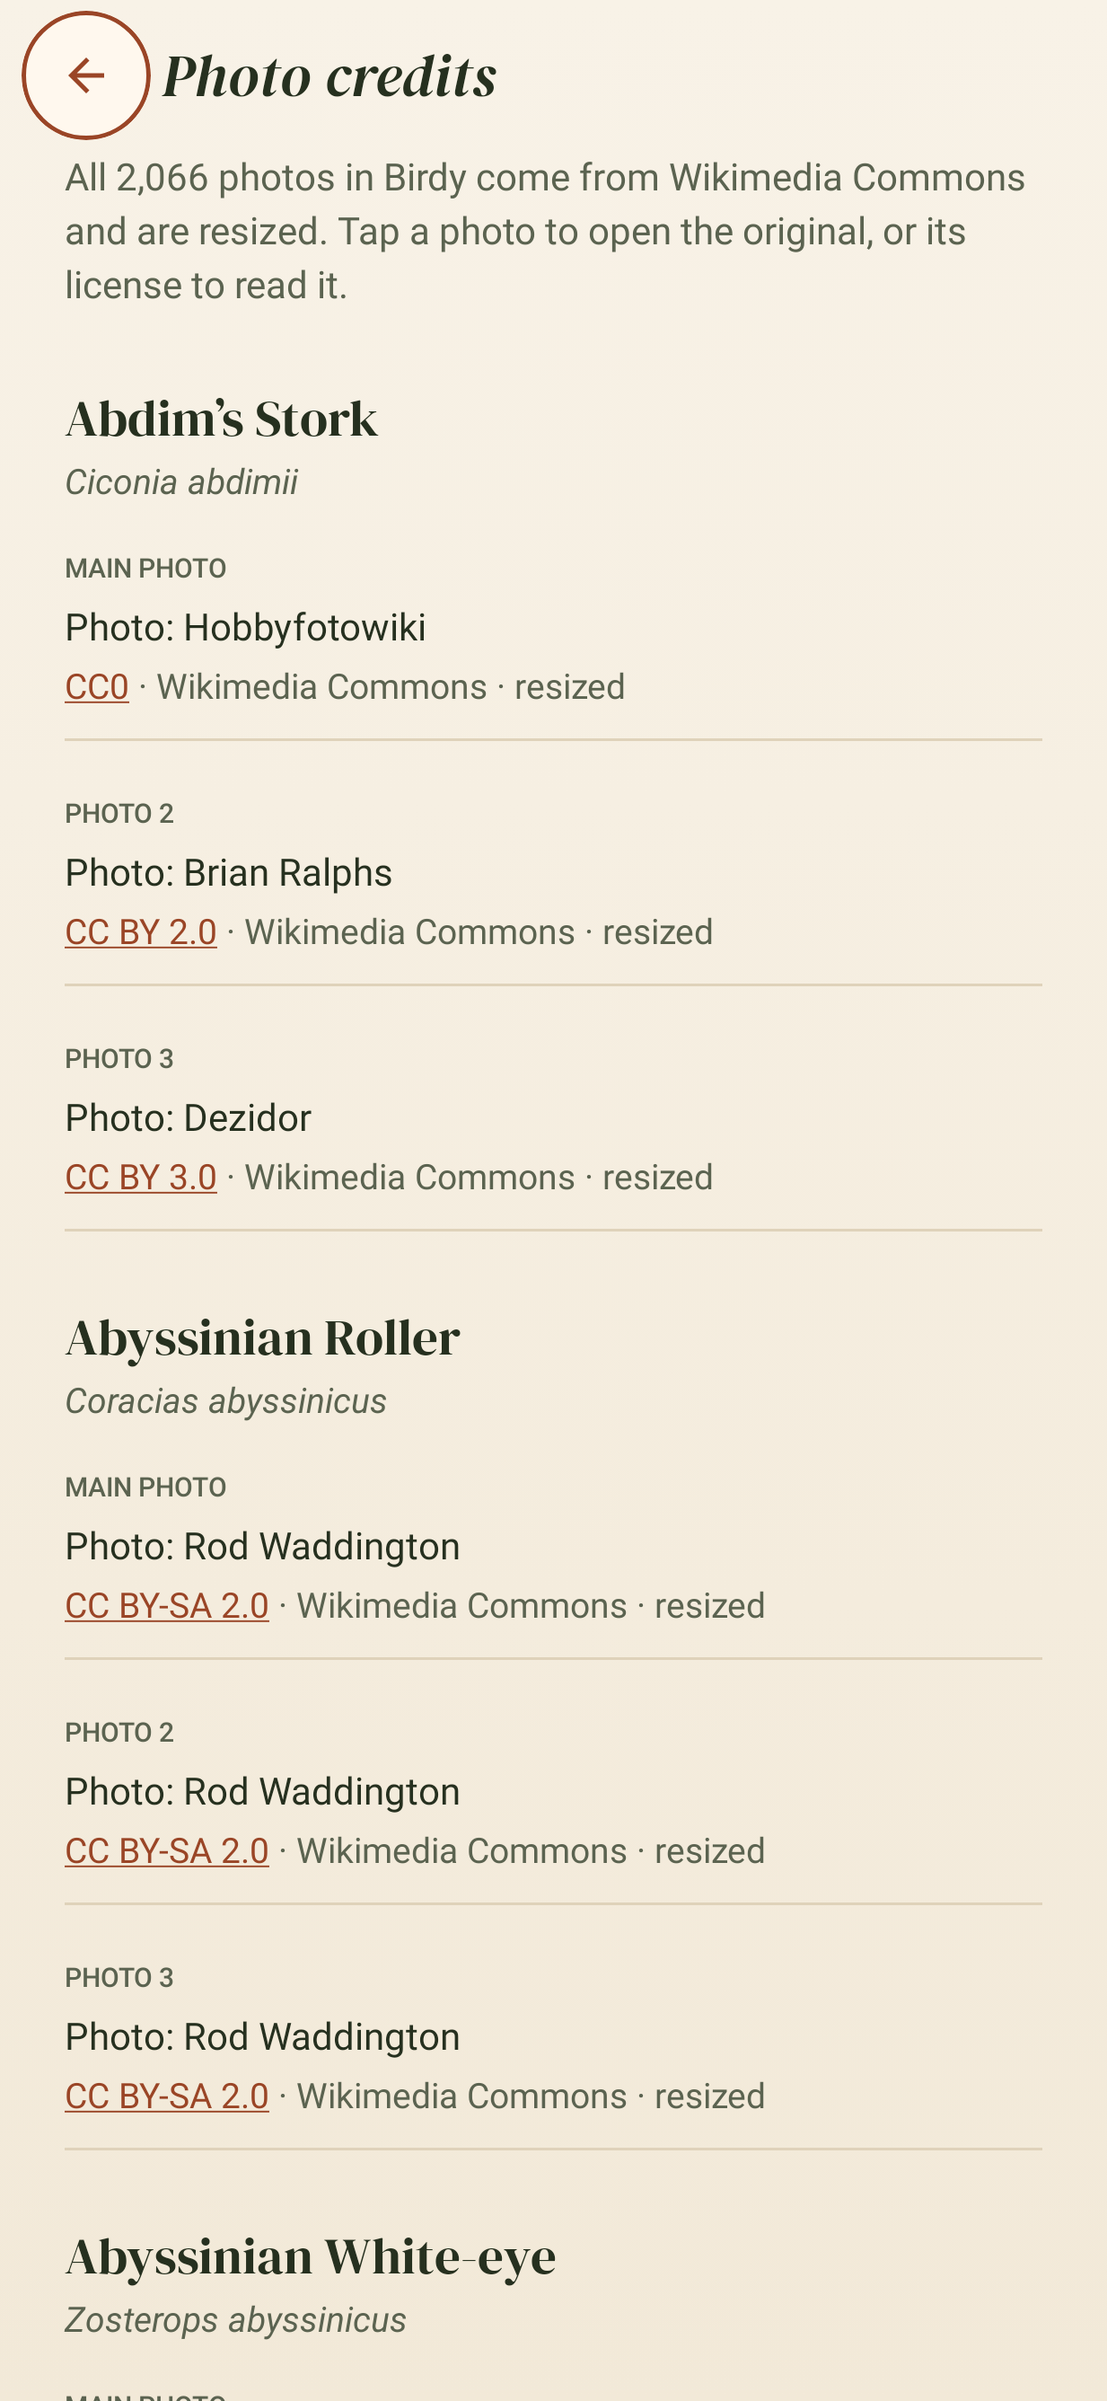
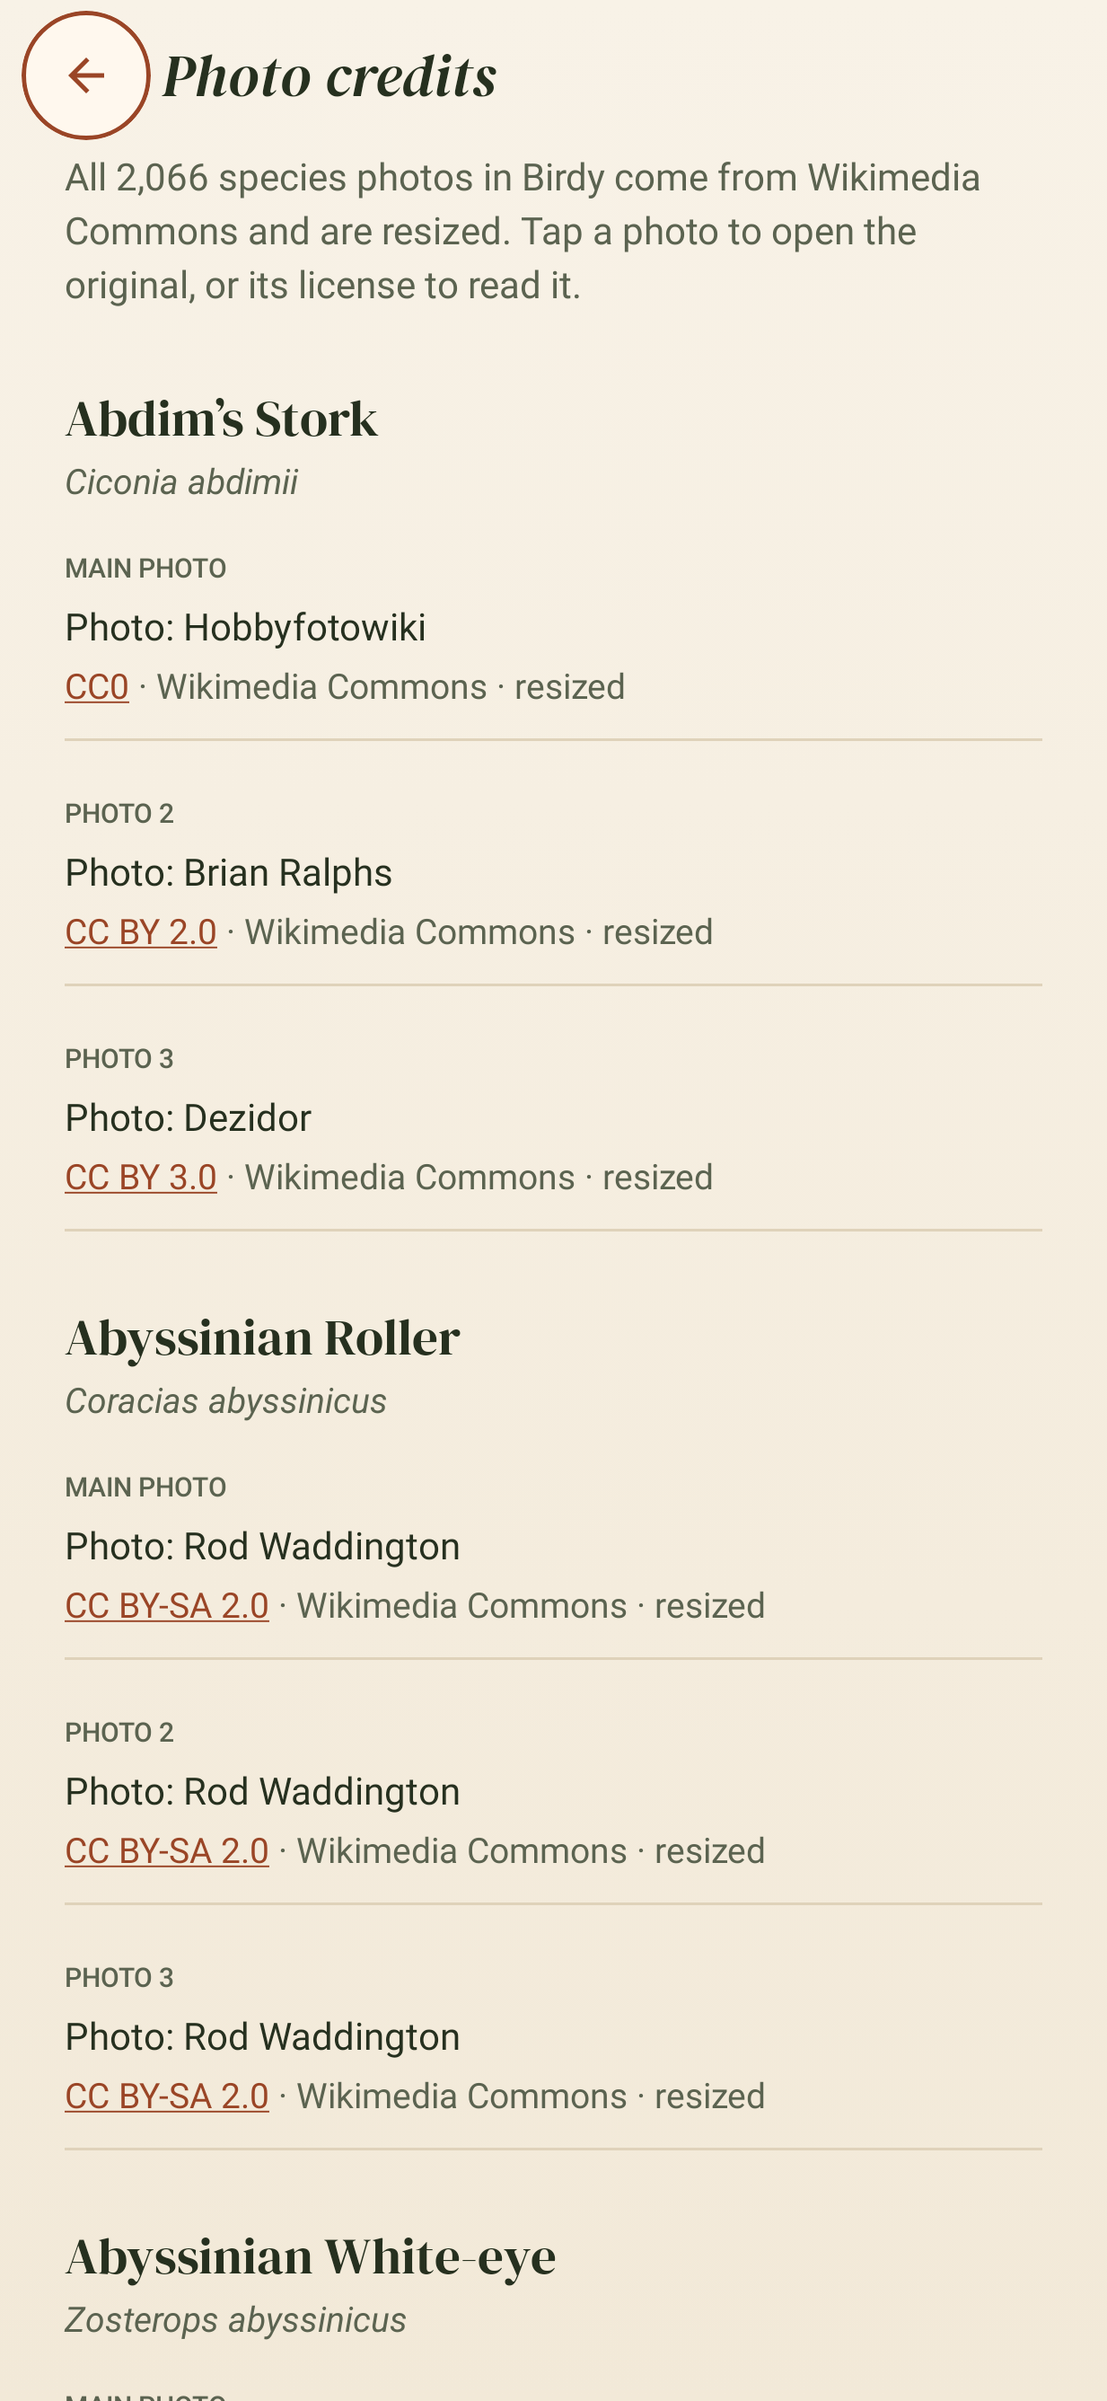
fix(about): "artfoton", and the other photos the app ships credited under Övriga bilder (7e-2 review)
About and Bildkällor count "artfoton" / "species photos", since the app ships other images
too. Bildkällor ends with "Övriga bilder": the Premium screen's great tit and the photo
model's parity test image (shared/ml composeResources), both CC0 by Hobbyfotowiki on
Commons, resized. The app's other images (hero_bird.png, the launcher icons, the splash
icon) are Birdy's own; OtherImagesTest fails when a new image is bundled without a credit
or an entry as Birdy's own. Screenshots re-recorded, plus the end of the photo list and the
native notices.

Changed region(s): [[0.0616, 0.0621, 0.9246, 0.1242]]

diff --git a/composeApp/src/commonMain/kotlin/se/birdy/app/ui/settings/credits/PhotoCreditsScreen.kt b/composeApp/src/commonMain/kotlin/se/birdy/app/ui/settings/credits/PhotoCreditsScreen.kt
@@ -10,6 +10,7 @@ import androidx.compose.foundation.layout.fillMaxWidth
 import androidx.compose.foundation.layout.height
 import androidx.compose.foundation.layout.padding
 import androidx.compose.foundation.lazy.LazyColumn
+import androidx.compose.foundation.lazy.items
 import androidx.compose.foundation.lazy.itemsIndexed
 import androidx.compose.material3.Text
 import androidx.compose.runtime.Composable
@@ -39,9 +40,13 @@ import birdy_bird_scanner.composeapp.generated.resources.photo_credits_intro
 import birdy_bird_scanner.composeapp.generated.resources.photo_credits_numbered
 import birdy_bird_scanner.composeapp.generated.resources.photo_credits_open_file
 import birdy_bird_scanner.composeapp.generated.resources.photo_credits_open_license
+import birdy_bird_scanner.composeapp.generated.resources.photo_credits_other_title
 import birdy_bird_scanner.composeapp.generated.resources.photo_credits_resized
 import birdy_bird_scanner.composeapp.generated.resources.photo_credits_row_description
 import birdy_bird_scanner.composeapp.generated.resources.photo_credits_title
+import birdy_bird_scanner.composeapp.generated.resources.photo_credits_use_model_test
+import birdy_bird_scanner.composeapp.generated.resources.photo_credits_use_premium
+import org.jetbrains.compose.resources.StringResource
 import org.jetbrains.compose.resources.stringResource
 import se.birdy.app.ui.components.JournalLoading
 import se.birdy.app.ui.components.JournalScaffold
@@ -73,6 +78,53 @@ internal data class PhotoCredits(
 
 private const val HERO_ROLE = "hero"
 private const val COMMONS = "Wikimedia Commons"
+
+/**
+ * A photo the app ships outside the species photos, credited under "Övriga bilder" (release 1.3.0,
+ * review of Task 7e-2): what it is used for, and its credit. Both are CC0 photos by Hobbyfotowiki
+ * that are also species heroes; the app's other images (the bird of the icon and the splash, the
+ * map pin) are Birdy's own. `OtherImagesTest` fails when a new image file is bundled without being
+ * listed here or as Birdy's own.
+ */
+internal data class OtherImage(
+    val use: StringResource,
+    val file: String,
+    val credit: PhotoCredit,
+)
+
+internal val OTHER_IMAGES =
+    listOf(
+        OtherImage(
+            use = Res.string.photo_credits_use_premium,
+            file = "composeApp/src/commonMain/composeResources/files/premium/great-tit-hero.jpg",
+            credit =
+                PhotoCredit(
+                    speciesId = SpeciesId("Q25485"),
+                    speciesName = "Parus major",
+                    scientificName = "Parus major",
+                    role = "other",
+                    path = "other/premium/great-tit-hero.jpg",
+                    license = "CC0",
+                    author = "Hobbyfotowiki",
+                    commonsFileName = "Great tit (Parus major), North Rhine-Westphalia.jpg",
+                ),
+        ),
+        OtherImage(
+            use = Res.string.photo_credits_use_model_test,
+            file = "shared/ml/src/commonMain/composeResources/files/testdata/parity_Q180991.jpg",
+            credit =
+                PhotoCredit(
+                    speciesId = SpeciesId("Q180991"),
+                    speciesName = "Mergus merganser",
+                    scientificName = "Mergus merganser",
+                    role = "other",
+                    path = "other/testdata/parity_Q180991.jpg",
+                    license = "CC0",
+                    author = "Hobbyfotowiki",
+                    commonsFileName = "Goosander (Eurasian) (Mergus merganser).jpg",
+                ),
+        ),
+    )
 
 // The main photo first, then the others in file order ("secondary-2" before "secondary-10").
 private val PHOTO_ORDER = compareBy<PhotoCredit>({ it.role != HERO_ROLE }, { it.path.length }, { it.path })
@@ -107,7 +159,8 @@ fun PhotoCreditsRoute(
 
 /**
  * Bildkällor / Photo credits (release 1.3.0 Task 7e-2, legal review §2): every species photo in the
- * app with its photographer, licence and source, CC0 and public domain included. A row opens the
+ * app with its photographer, licence and source, CC0 and public domain included, then the other
+ * photos the app ships ([OTHER_IMAGES]). A row opens the
  * photo's page on Wikimedia Commons; its licence name opens the licence. For TalkBack each row is
  * one node that reads the whole credit, with opening the licence as an extra action.
  */
@@ -157,16 +210,35 @@ private fun PhotoCreditList(
             )
         }
         credits.groups.forEach { group ->
-            item(key = "species:${group.speciesId.raw}") { SpeciesHeader(group) }
+            item(key = "species:${group.speciesId.raw}") { SpeciesHeader(group.speciesName, group.scientificName) }
             itemsIndexed(group.photos, key = { _, photo -> photo.path }) { index, photo ->
-                PhotoCreditRow(credit = photo, position = index + 1, onOpenUrl = onOpenUrl)
+                val label =
+                    if (photo.role == HERO_ROLE) {
+                        stringResource(Res.string.photo_credits_hero)
+                    } else {
+                        stringResource(Res.string.photo_credits_numbered, (index + 1).toString())
+                    }
+                PhotoCreditRow(credit = photo, label = label, onOpenUrl = onOpenUrl)
             }
+        }
+        item(key = "other") { SpeciesHeader(stringResource(Res.string.photo_credits_other_title), null) }
+        items(OTHER_IMAGES, key = { it.credit.path }) { image ->
+            // Named like the species in the list above, in the reader's language.
+            val name = credits.groups.firstOrNull { it.speciesId == image.credit.speciesId }?.speciesName
+            PhotoCreditRow(
+                credit = image.credit.copy(speciesName = name ?: image.credit.scientificName),
+                label = stringResource(image.use),
+                onOpenUrl = onOpenUrl,
+            )
         }
     }
 }
 
 @Composable
-private fun SpeciesHeader(group: PhotoCreditGroup) {
+private fun SpeciesHeader(
+    title: String,
+    scientificName: String?,
+) {
     Column(
         modifier =
             Modifier
@@ -175,27 +247,23 @@ private fun SpeciesHeader(group: PhotoCreditGroup) {
                 .semantics(mergeDescendants = true) { heading() },
     ) {
         Text(
-            text = group.speciesName,
+            text = title,
             fontFamily = rememberDmSerifDisplay(),
             fontSize = 19.sp,
             color = TextOnCreme,
         )
-        Text(text = group.scientificName, fontStyle = FontStyle.Italic, fontSize = 13.sp, color = InkMuted)
+        if (scientificName != null) {
+            Text(text = scientificName, fontStyle = FontStyle.Italic, fontSize = 13.sp, color = InkMuted)
+        }
     }
 }
 
 @Composable
 private fun PhotoCreditRow(
     credit: PhotoCredit,
-    position: Int,
+    label: String,
     onOpenUrl: (String) -> Unit,
 ) {
-    val label =
-        if (credit.role == HERO_ROLE) {
-            stringResource(Res.string.photo_credits_hero)
-        } else {
-            stringResource(Res.string.photo_credits_numbered, position.toString())
-        }
     val description =
         stringResource(
             Res.string.photo_credits_row_description,

diff --git a/composeApp/src/androidUnitTest/kotlin/se/birdy/app/ui/settings/credits/PhotoCreditsScreenTest.kt b/composeApp/src/androidUnitTest/kotlin/se/birdy/app/ui/settings/credits/PhotoCreditsScreenTest.kt
@@ -6,12 +6,14 @@ import androidx.compose.ui.test.ExperimentalTestApi
 import androidx.compose.ui.test.SemanticsMatcher
 import androidx.compose.ui.test.assert
 import androidx.compose.ui.test.click
+import androidx.compose.ui.test.hasScrollToKeyAction
 import androidx.compose.ui.test.junit4.createComposeRule
 import androidx.compose.ui.test.onNodeWithContentDescription
 import androidx.compose.ui.test.onNodeWithText
 import androidx.compose.ui.test.performClick
 import androidx.compose.ui.test.performCustomAccessibilityActionWithLabel
 import androidx.compose.ui.test.performScrollTo
+import androidx.compose.ui.test.performScrollToKey
 import androidx.compose.ui.test.performTouchInput
 import org.junit.Rule
 import org.junit.Test
@@ -93,7 +95,7 @@ class PhotoCreditsScreenTest {
     @Config(qualifiers = "+sv")
     fun `a row shows the photographer and licence and opens the photo on commons`() {
         show()
-        compose.onNodeWithText("Alla 4 foton i Birdy kommer från Wikimedia Commons", substring = true).assertExists()
+        compose.onNodeWithText("Alla 4 artfoton i Birdy kommer från Wikimedia Commons", substring = true).assertExists()
         val description = "Talgoxe, Huvudbild. Foto: Hobbyfotowiki. Licens: CC0. Wikimedia Commons, nedskalad."
         compose.onNodeWithContentDescription(description).performScrollTo().performClick()
         compose
@@ -150,10 +152,35 @@ class PhotoCreditsScreenTest {
     @Config(qualifiers = "+en")
     fun `the english page`() {
         show()
-        compose.onNodeWithText("All 4 photos in Birdy come from Wikimedia Commons", substring = true).assertExists()
+        compose.onNodeWithText("All 4 species photos in Birdy come from Wikimedia Commons", substring = true).assertExists()
         compose
             .onNodeWithContentDescription("Talgoxe, Main photo. Photo: Hobbyfotowiki. License: CC0. Wikimedia Commons, resized.")
             .assertExists()
+    }
+
+    @Test
+    @Config(qualifiers = "+sv")
+    fun `the photos outside the species list are credited under other images`() {
+        show()
+        compose.onNode(hasScrollToKeyAction()).performScrollToKey("other")
+        compose.onNodeWithText("Övriga bilder").assertExists()
+        // The premium photo is named like the species above it (Talgoxe), the test image by its
+        // scientific name when its species is not in the list.
+        compose.onNode(hasScrollToKeyAction()).performScrollToKey("other/premium/great-tit-hero.jpg")
+        compose
+            .onNodeWithContentDescription("Talgoxe, Premiumskärmen. Foto: Hobbyfotowiki. Licens: CC0. Wikimedia Commons, nedskalad.")
+            .performClick()
+        compose.onNode(hasScrollToKeyAction()).performScrollToKey("other/testdata/parity_Q180991.jpg")
+        compose
+            .onNodeWithContentDescription(
+                "Mergus merganser, Testbild för fotomodellen. Foto: Hobbyfotowiki. Licens: CC0. Wikimedia Commons, nedskalad.",
+            ).assertExists()
+        compose.runOnIdle {
+            assertEquals(
+                listOf("https://commons.wikimedia.org/wiki/File:Great_tit_(Parus_major),_North_Rhine-Westphalia.jpg"),
+                opened,
+            )
+        }
     }
 
     @Test

diff --git a/composeApp/src/androidUnitTest/kotlin/se/birdy/app/ui/settings/credits/OtherImagesTest.kt b/composeApp/src/androidUnitTest/kotlin/se/birdy/app/ui/settings/credits/OtherImagesTest.kt
@@ -1,0 +1,66 @@
+package se.birdy.app.ui.settings.credits
+
+import org.junit.Test
+import java.io.File
+import kotlin.test.assertEquals
+import kotlin.test.assertTrue
+
+/**
+ * Release 1.3.0 (review of Task 7e-2): every image the app bundles besides the species photos is
+ * either Birdy's own or credited under "Övriga bilder" ([OTHER_IMAGES]). A new photo added to the
+ * app's resources fails here until it is credited or listed as Birdy's own.
+ */
+class OtherImagesTest {
+    private val repoRoot: File =
+        generateSequence(File(System.getProperty("user.dir") ?: ".").absoluteFile) { it.parentFile }
+            .first { File(it, "settings.gradle.kts").isFile }
+
+    // Birdy's own artwork: the bird of the icon, the splash and the map pin (legal review §3).
+    private val ownImages =
+        setOf(
+            "composeApp/src/commonMain/composeResources/files/branding/hero_bird.png",
+            "composeApp/src/androidMain/res/drawable-nodpi/ic_launcher_monochrome.png",
+            "androidApp/src/main/res/drawable-nodpi/ic_launcher_monochrome.png",
+            "androidApp/src/main/res/drawable-nodpi/splash_icon.png",
+        )
+
+    // The app's own source sets and the shared modules' main source sets (not shared/content/images,
+    // the species photos' source, which reach the app through the asset pack and the db's credits).
+    private val bundled: List<File> =
+        listOf("composeApp/src/commonMain", "composeApp/src/androidMain", "composeApp/src/iosMain", "androidApp/src/main")
+            .map { File(repoRoot, it) } +
+            File(repoRoot, "shared")
+                .listFiles()
+                .orEmpty()
+                .flatMap { module -> File(module, "src").listFiles().orEmpty().filter { it.name.endsWith("Main") } }
+
+    private val imageExtensions = setOf("png", "jpg", "jpeg", "webp", "gif")
+
+    private fun bundledImages(): Set<String> =
+        bundled
+            .filter { it.exists() }
+            .flatMap { dir ->
+                dir
+                    .walkTopDown()
+                    .filter { it.isFile && it.extension.lowercase() in imageExtensions }
+                    .toList()
+            }.map { it.relativeTo(repoRoot).invariantSeparatorsPath }
+            // Launcher icons are Birdy's own, in every density.
+            .filterNot { Regex("""/mipmap-[a-z]+/ic_launcher(_foreground)?\.png$""").containsMatchIn(it) }
+            .toSet()
+
+    @Test
+    fun `every bundled image besides the species photos is credited or birdy's own`() {
+        val credited = OTHER_IMAGES.map { it.file }.toSet()
+        assertEquals(emptySet(), bundledImages() - credited - ownImages, "images without a credit")
+    }
+
+    @Test
+    fun `the credited images are there, with commons credits`() {
+        OTHER_IMAGES.forEach { image ->
+            assertTrue(File(repoRoot, image.file).isFile, image.file)
+            assertTrue(image.credit.filePageUrl.startsWith("https://commons.wikimedia.org/wiki/File:"))
+            assertTrue(image.credit.author.isNotBlank() && image.credit.licenseUrl != null, image.file)
+        }
+    }
+}

diff --git a/composeApp/src/androidUnitTest/kotlin/se/birdy/app/ui/settings/AboutScreenTest.kt b/composeApp/src/androidUnitTest/kotlin/se/birdy/app/ui/settings/AboutScreenTest.kt
@@ -65,7 +65,7 @@ class AboutScreenTest {
     fun `swedish about names every source and licence`() {
         show(Locale.SV)
         listOf(
-            "2\u00A0066 foton från Wikimedia Commons under CC0, public domain, CC BY eller CC BY-SA, nedskalade",
+            "2\u00A0066 artfoton från Wikimedia Commons under CC0, public domain, CC BY eller CC BY-SA, nedskalade",
             "Claude (Anthropic)",
             "Wikipedia-artiklar på svenska och engelska och delas under CC BY-SA 4.0",
             "BirdLife Sveriges taxonomikommitté (Västpalearktis-listan)",
@@ -87,7 +87,7 @@ class AboutScreenTest {
     fun `english about names every source and licence`() {
         show(Locale.EN)
         listOf(
-            "2,066 photos from Wikimedia Commons under CC0, public domain, CC BY or CC BY-SA, resized",
+            "2,066 species photos from Wikimedia Commons under CC0, public domain, CC BY or CC BY-SA, resized",
             "based on Wikipedia articles in Swedish and English and are shared under CC BY-SA 4.0",
             "IOC World Bird List v14.1 (F. Gill, D. Donsker & P. Rasmussen, eds.; CC BY 3.0) and Wikidata (CC0)",
             "© OpenStreetMap contributors (ODbL)",
@@ -100,7 +100,7 @@ class AboutScreenTest {
     @Config(qualifiers = "+sv")
     fun `before the number of photos is read the paragraph has no number`() {
         show(Locale.SV, photoCount = null)
-        compose.onNodeWithText("Foton från Wikimedia Commons under CC0", substring = true).assertExists()
+        compose.onNodeWithText("Artfoton från Wikimedia Commons under CC0", substring = true).assertExists()
     }
 
     @Test

diff --git a/composeApp/src/androidUnitTest/kotlin/se/birdy/app/screenshots/CreditsScreenshotTest.kt b/composeApp/src/androidUnitTest/kotlin/se/birdy/app/screenshots/CreditsScreenshotTest.kt
@@ -130,6 +130,20 @@ class CreditsScreenshotTest {
     @Config(qualifiers = "+en")
     fun license_text_caveat_en() = licenseText("license_text_caveat_en", "font:caveat")
 
+    /** The end of the list: the other images, after a short list of species photos. */
+    @Test
+    @Config(qualifiers = "+sv")
+    fun photo_credits_other_sv() {
+        val credits = groupPhotoCredits(shippedCredits(Locale.SV).filter { it.speciesId.raw in setOf("Q25485", "Q180991") })
+        compose.captureScreen("photo_credits_other_sv") {
+            PhotoCreditsScreen(state = Loadable.Loaded(credits), locale = Locale.SV, onBack = {})
+        }
+    }
+
+    @Test
+    @Config(qualifiers = "+sv")
+    fun license_text_native_sv() = licenseText("license_text_native_sv", "tensorflow-native")
+
     @Test
     @Config(qualifiers = "+sv")
     fun license_text_birdnet_sv_200() {

diff --git a/composeApp/src/androidUnitTest/kotlin/se/birdy/app/ui/scaffold/CreditsRoutingTest.kt b/composeApp/src/androidUnitTest/kotlin/se/birdy/app/ui/scaffold/CreditsRoutingTest.kt
@@ -79,7 +79,7 @@ class CreditsRoutingTest {
                     )
             }
         val nav = openAbout(repository)
-        compose.onNodeWithText("1 foton från Wikimedia Commons", substring = true).assertExists()
+        compose.onNodeWithText("1 artfoton från Wikimedia Commons", substring = true).assertExists()
         compose.onNodeWithText("Bildkällor").performScrollTo().performClick()
         compose.waitForIdle()
         nav.isOn(AppRoute.PhotoCredits::class)
